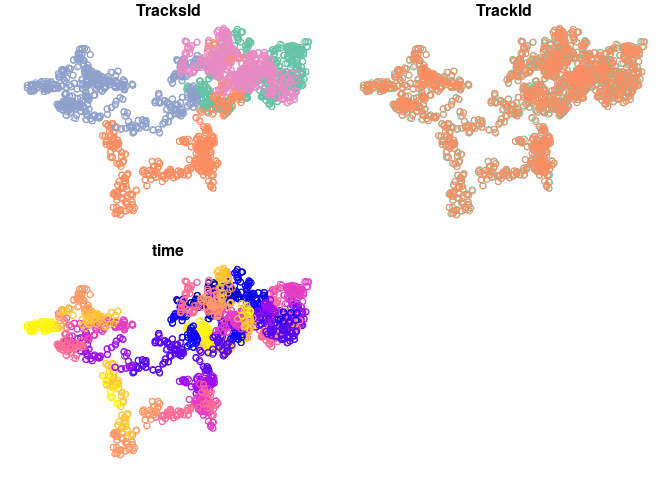
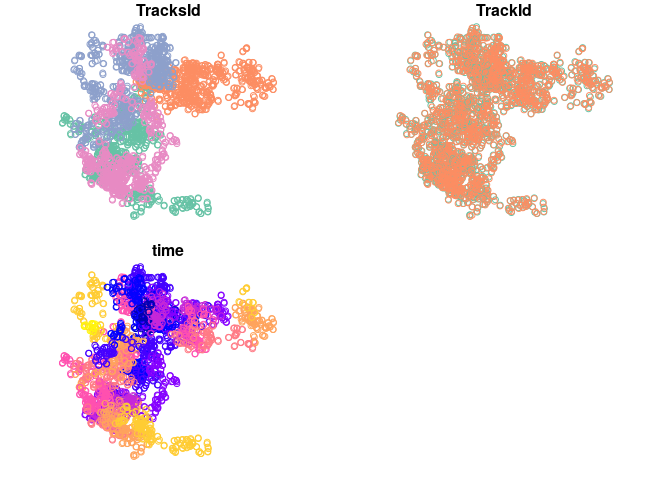
small updates on notes

Changed region(s): [[0.0312, 0.5312, 0.4688, 0.9688], [0.5312, 0.0312, 0.9688, 0.4688], [0.0312, 0.0312, 0.4688, 0.4688]]

diff --git a/notes.md b/notes.md
@@ -17,6 +17,7 @@ require(sf)
     ## Linking to GEOS 3.6.2, GDAL 2.2.3, PROJ 4.9.3
 
 ``` r
+set.seed(234)
 dataSf <- do.call('rbind', replicate(4, {
   n <- round(rgamma(1, 400))
   # simulate brownian motion
@@ -53,10 +54,10 @@ trajAsNestedTibble
     ## # A tibble: 4 x 2
     ##   TracksId                   Tracks          
     ##   <fct>                      <list>          
-    ## 1 bueqvjythxwalgzmncodfkspir <tibble [2 × 2]>
-    ## 2 nilarfkxpmsyoegzcqjvbwhutd <tibble [2 × 2]>
-    ## 3 izpthqxmfebndjvrukloawsycg <tibble [2 × 2]>
-    ## 4 rymvghtsdxfjwequpczlanikbo <tibble [2 × 2]>
+    ## 1 atboupsfkjqizydwxhermlvgcn <tibble [2 × 2]>
+    ## 2 ajowmncbevxupzyhtsklqgfrid <tibble [2 × 2]>
+    ## 3 cptxjindfvuhekzlbmyrogwsaq <tibble [2 × 2]>
+    ## 4 xzbholrkivaqytjcndmespfgwu <tibble [2 × 2]>
 
 ``` r
 trajAsNestedTibble$Tracks[[1]]
@@ -65,8 +66,8 @@ trajAsNestedTibble$Tracks[[1]]
     ## # A tibble: 2 x 2
     ##   TrackId Track             
     ##   <fct>   <list>            
-    ## 1 tr1     <tibble [415 × 2]>
-    ## 2 tr2     <tibble [415 × 2]>
+    ## 1 tr1     <tibble [413 × 2]>
+    ## 2 tr2     <tibble [413 × 2]>
 
 ``` r
 trajAsNestedTibble$Tracks[[1]]$Track[[1]] %>% head()
@@ -75,18 +76,18 @@ trajAsNestedTibble$Tracks[[1]]$Track[[1]] %>% head()
     ## Simple feature collection with 6 features and 1 field
     ## geometry type:  POINT
     ## dimension:      XY
-    ## bbox:           xmin: 0.4335085 ymin: -3.365161 xmax: 1.213213 ymax: -1.39285
+    ## bbox:           xmin: 0.1528957 ymin: -3.825114 xmax: 1.320248 ymax: 0.1895521
     ## epsg (SRID):    28992
     ## proj4string:    +proj=sterea +lat_0=52.15616055555555 +lon_0=5.38763888888889 +k=0.9999079 +x_0=155000 +y_0=463000 +ellps=bessel +towgs84=565.2369,50.0087,465.658,-0.406857,0.350733,-1.87035,4.0812 +units=m +no_defs
     ## # A tibble: 6 x 2
     ##   time                             geometry
     ##   <dttm>                        <POINT [m]>
-    ## 1 2019-03-13 14:42:06   (0.518603 -1.39285)
-    ## 2 2019-03-13 14:42:07 (0.6133364 -1.623702)
-    ## 3 2019-03-13 14:42:08   (1.213213 -2.16036)
-    ## 4 2019-03-13 14:42:09 (0.4335085 -3.365161)
-    ## 5 2019-03-13 14:42:10  (1.011515 -2.561027)
-    ## 6 2019-03-13 14:42:11  (0.9773563 -2.63912)
+    ## 1 2019-03-13 15:06:23   (1.08787 0.1895521)
+    ## 2 2019-03-13 15:06:24 (1.320248 -0.6341597)
+    ## 3 2019-03-13 15:06:25 (0.1528957 -1.186416)
+    ## 4 2019-03-13 15:06:26 (0.5223393 -1.356707)
+    ## 5 2019-03-13 15:06:27 (0.9232716 -3.825114)
+    ## 6 2019-03-13 15:06:28 (0.9884466 -2.443839)
 
 ``` r
 suppressWarnings(trajAsNestedTibble %>% unnest %>% unnest %>% st_as_sf %>% plot)
@@ -129,7 +130,7 @@ suppressWarnings(plot(trajIntersect %>% unnest %>% unnest %>%st_as_sf))
 Time data
 =========
 
-This is probably one of the main challenges. The clearest was to deal with this is probably to define a column like the `geometry` column of a Simple features collection. This is probably most easily defined based on the POSIXct.
+This is probably one of the main challenges. The clearest was to deal with this is probably to define a column like the `geometry` column of a Simple features collection. This is probably most easily defined based on the `POSIXct`.
 
 Printing
 ========
@@ -148,3 +149,8 @@ The usage of nested tibbles allows for a lot of freedom and there are not many r
 -   `has_z`
 
 I think a few properties might be formally restricted as they are quite common among most tracking data I am aware of. The two that I directly imagine would be first that timestamps are ordered. Second might be that only `sf::POINT` as spatial features are considered. I am not 100% sure of the later one as I can see some value for other possible spatial features like `sf::MULTIPOINT` (for example for argos tracking data that has two alternative solutions) or maybe have the locations presented as error polygons instead of points.
+
+Convience functions
+===================
+
+It might be important to define some functions for rather common tasks. One example might be to switch between a point representation and a representation based on `sf::LINESTRING` and `lubridate::Interval` for each segment. This is for example useful for doing intersections with roads. Alternatively the whole object can be represented as a `sf::MULTILINESTRING`.
